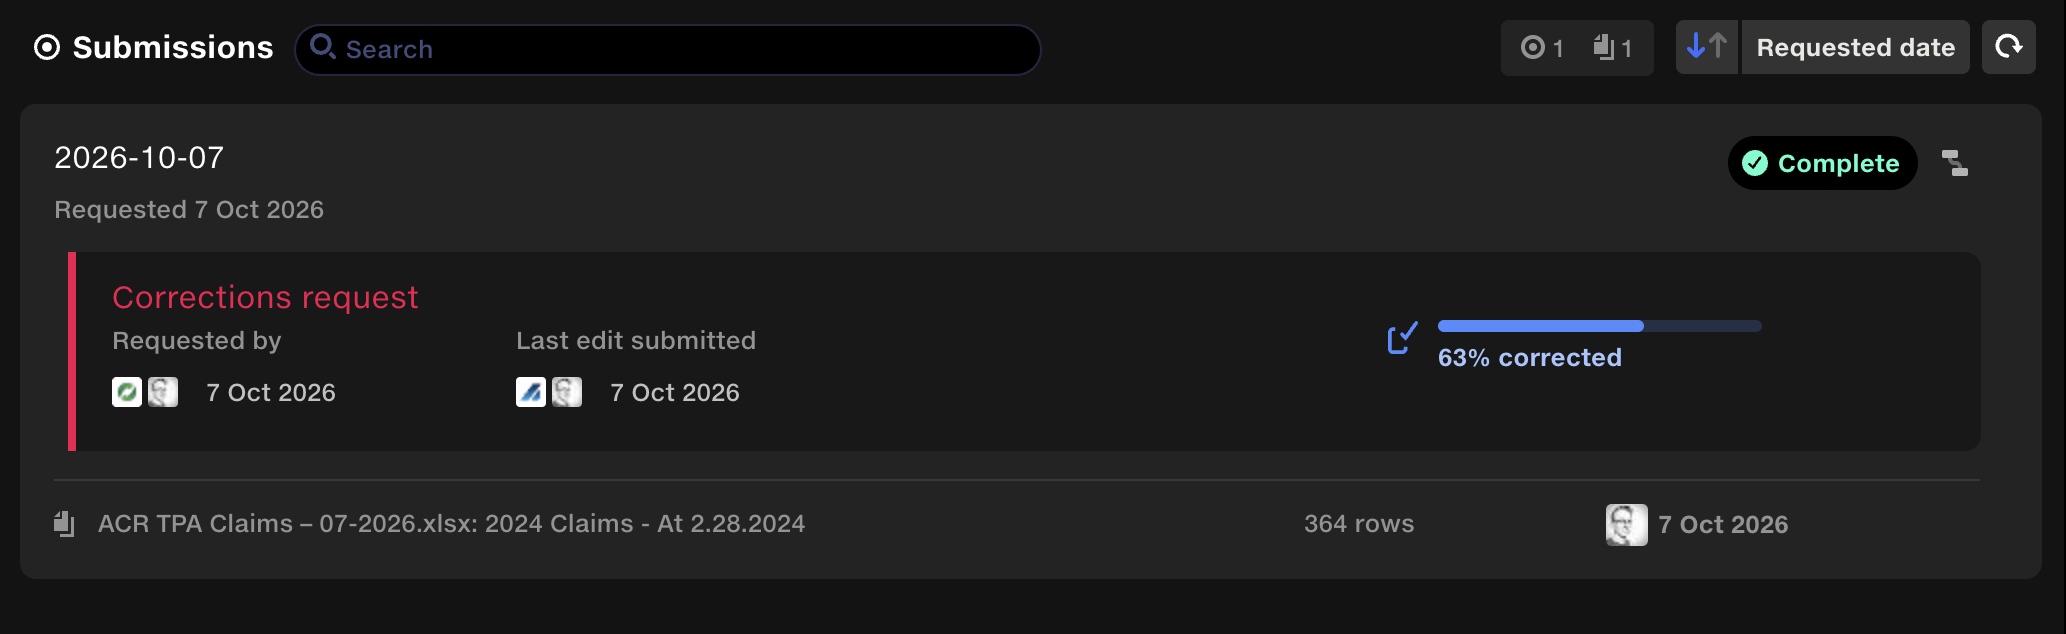
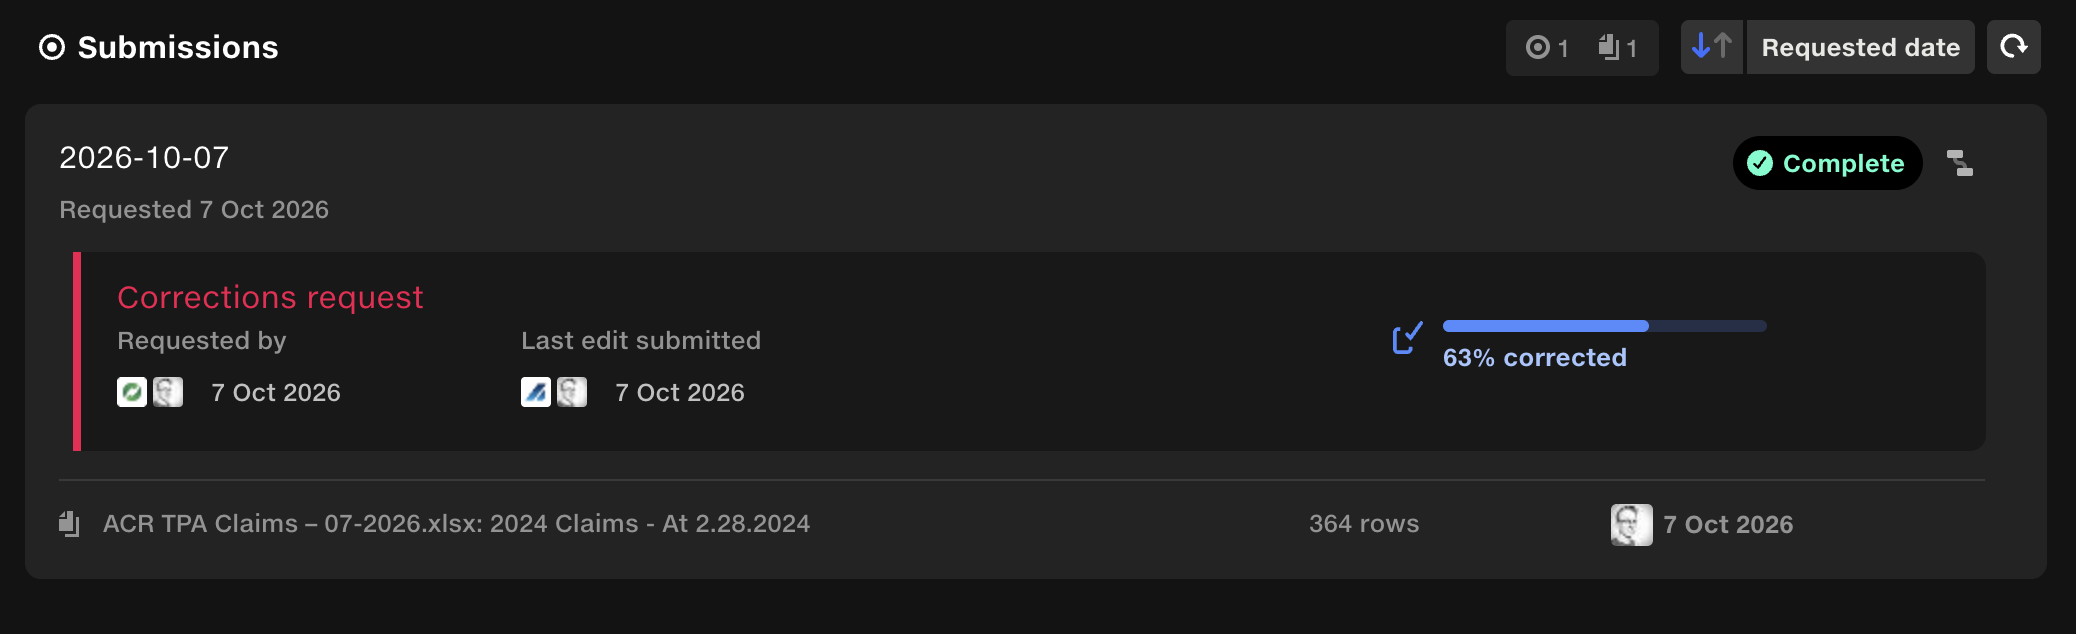
Validation: updated corrections request screenshot

diff --git a/case-studies/validation.html b/case-studies/validation.html
@@ -1691,7 +1691,7 @@
 
             <figure class="figure">
               <div class="figure-portrait-frame">
-                <img src="media/corrections-request.png" width="2066" height="634" alt="A data submission with a corrections request attached: requested by and last edit submitted, each with the organisation and person, and a progress bar showing 63% corrected." loading="lazy">
+                <img src="media/corrections-request.png" width="2076" height="634" alt="A data submission with a corrections request attached: requested by and last edit submitted, each with the organisation and person, and a progress bar showing 63% corrected." loading="lazy">
               </div>
               <figcaption>Correction requests are attached to the submitted data and visible to both parties.</figcaption>
             </figure>
